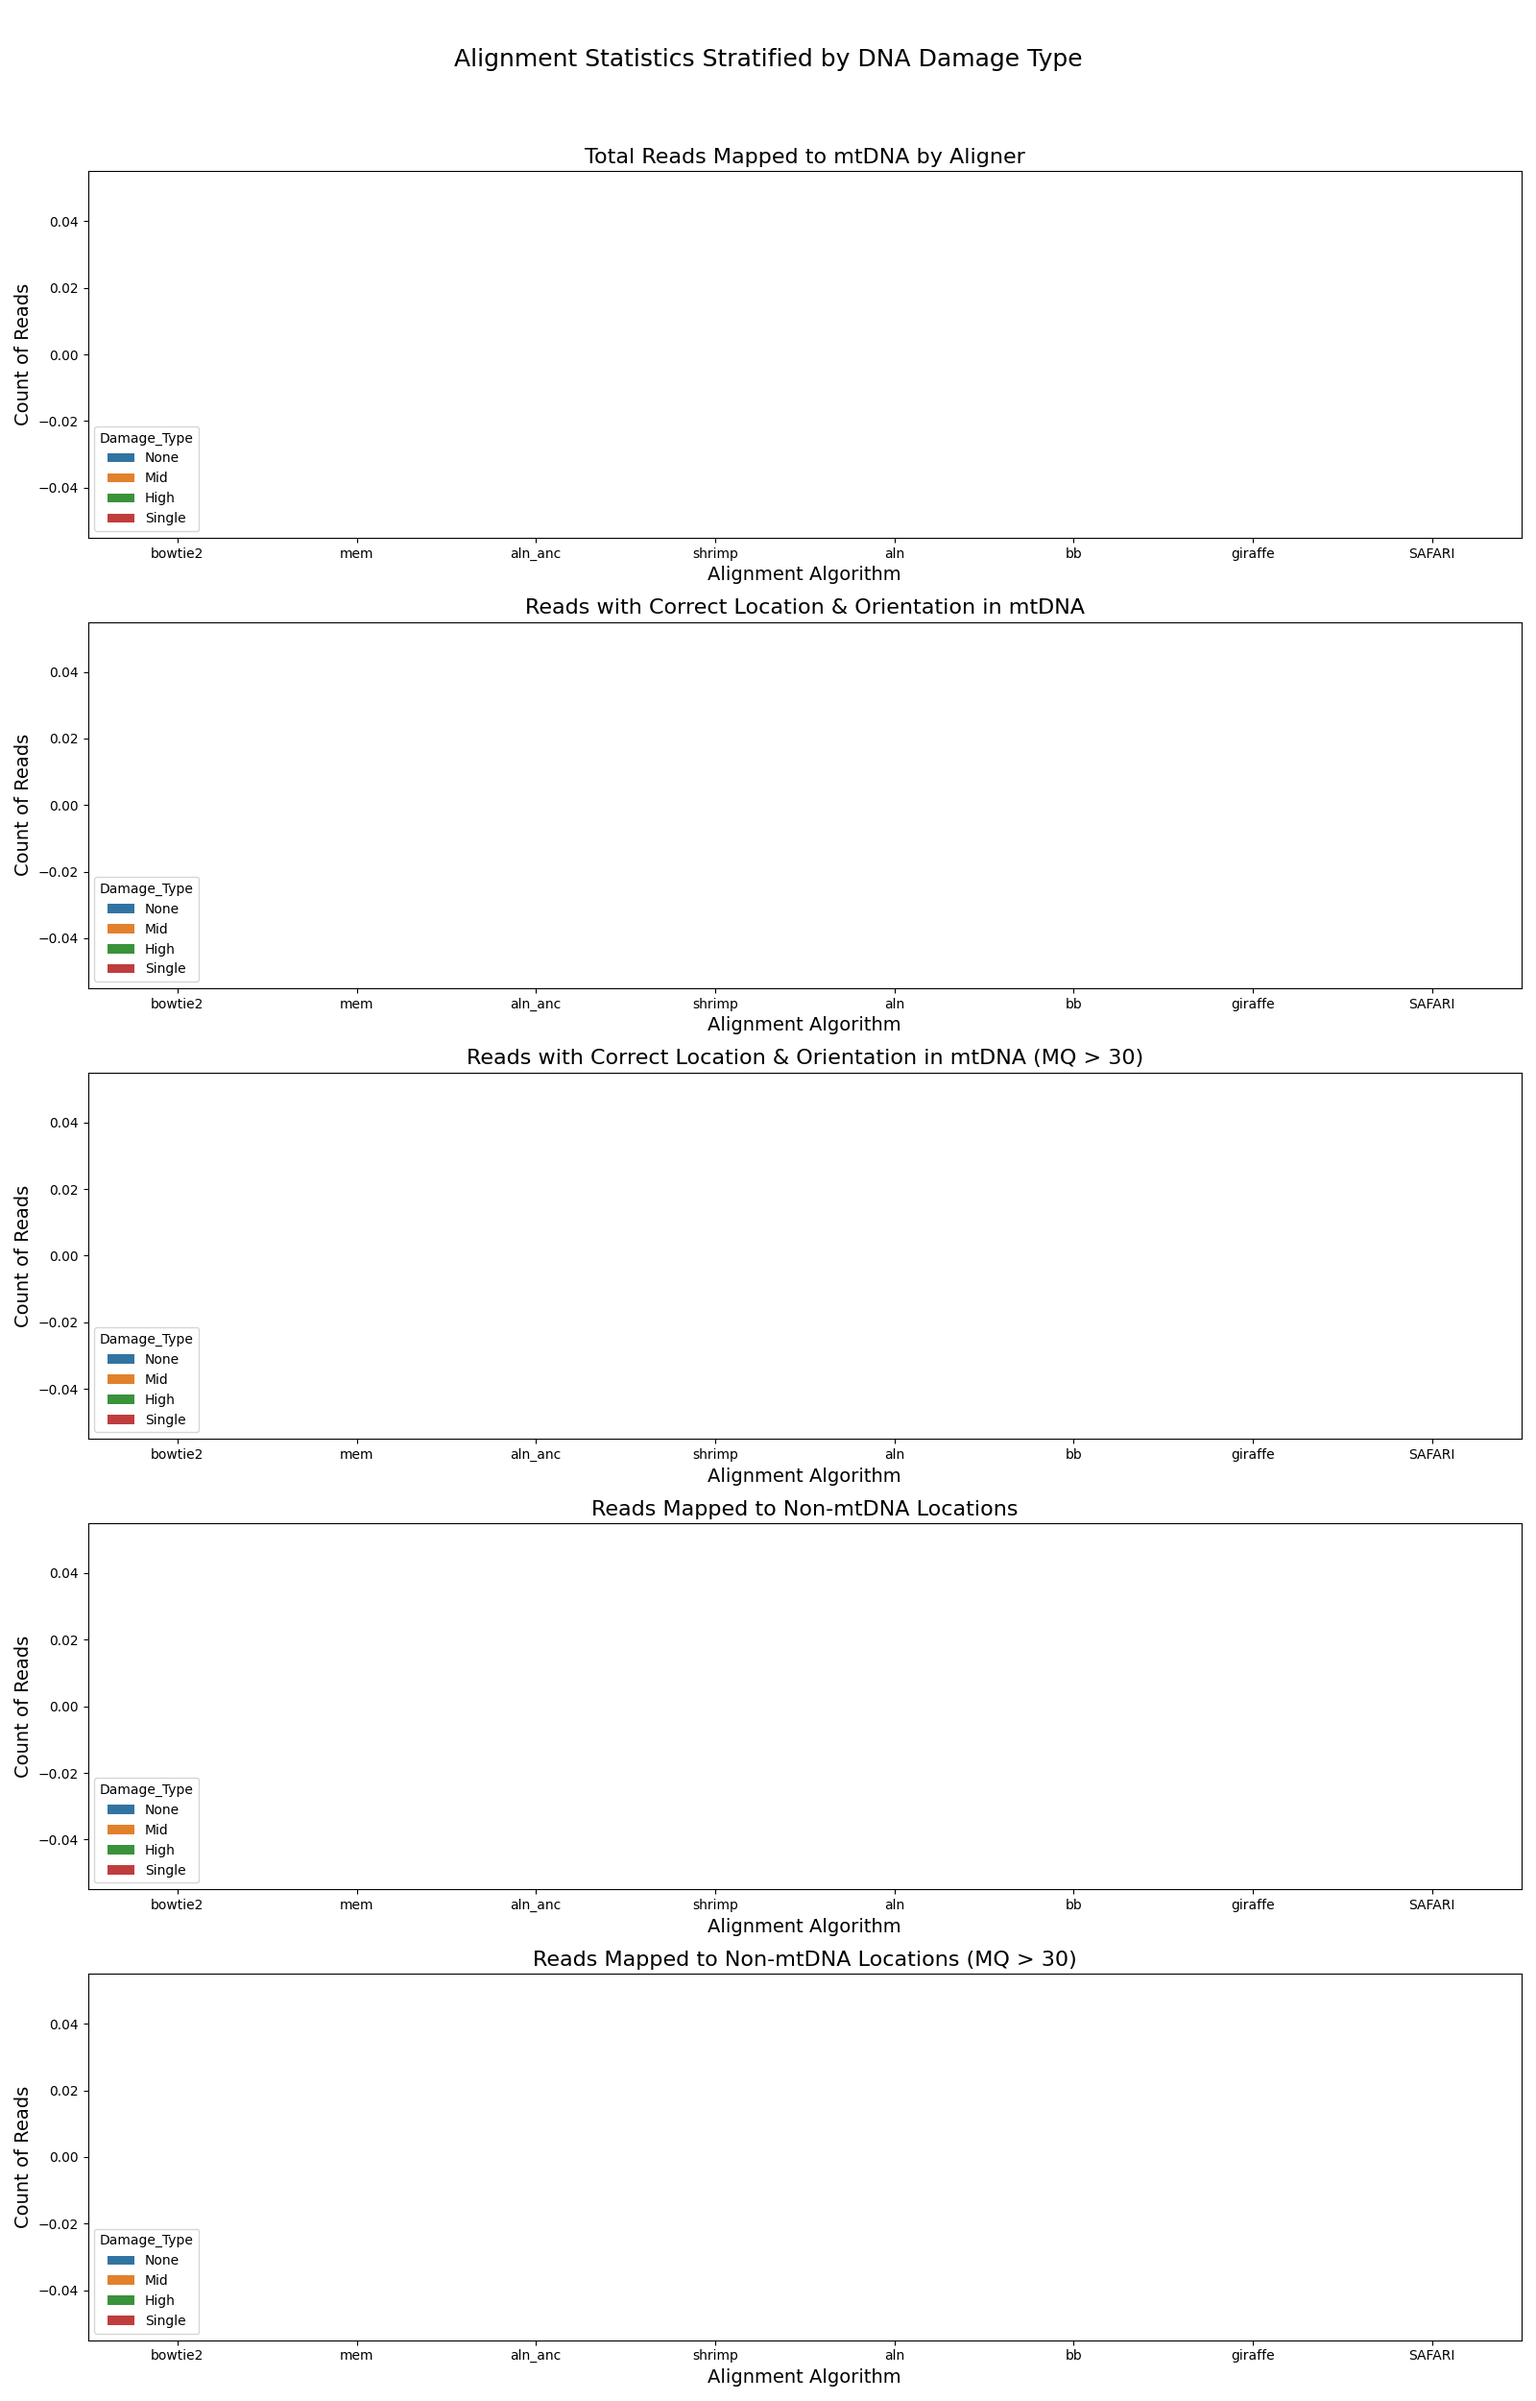
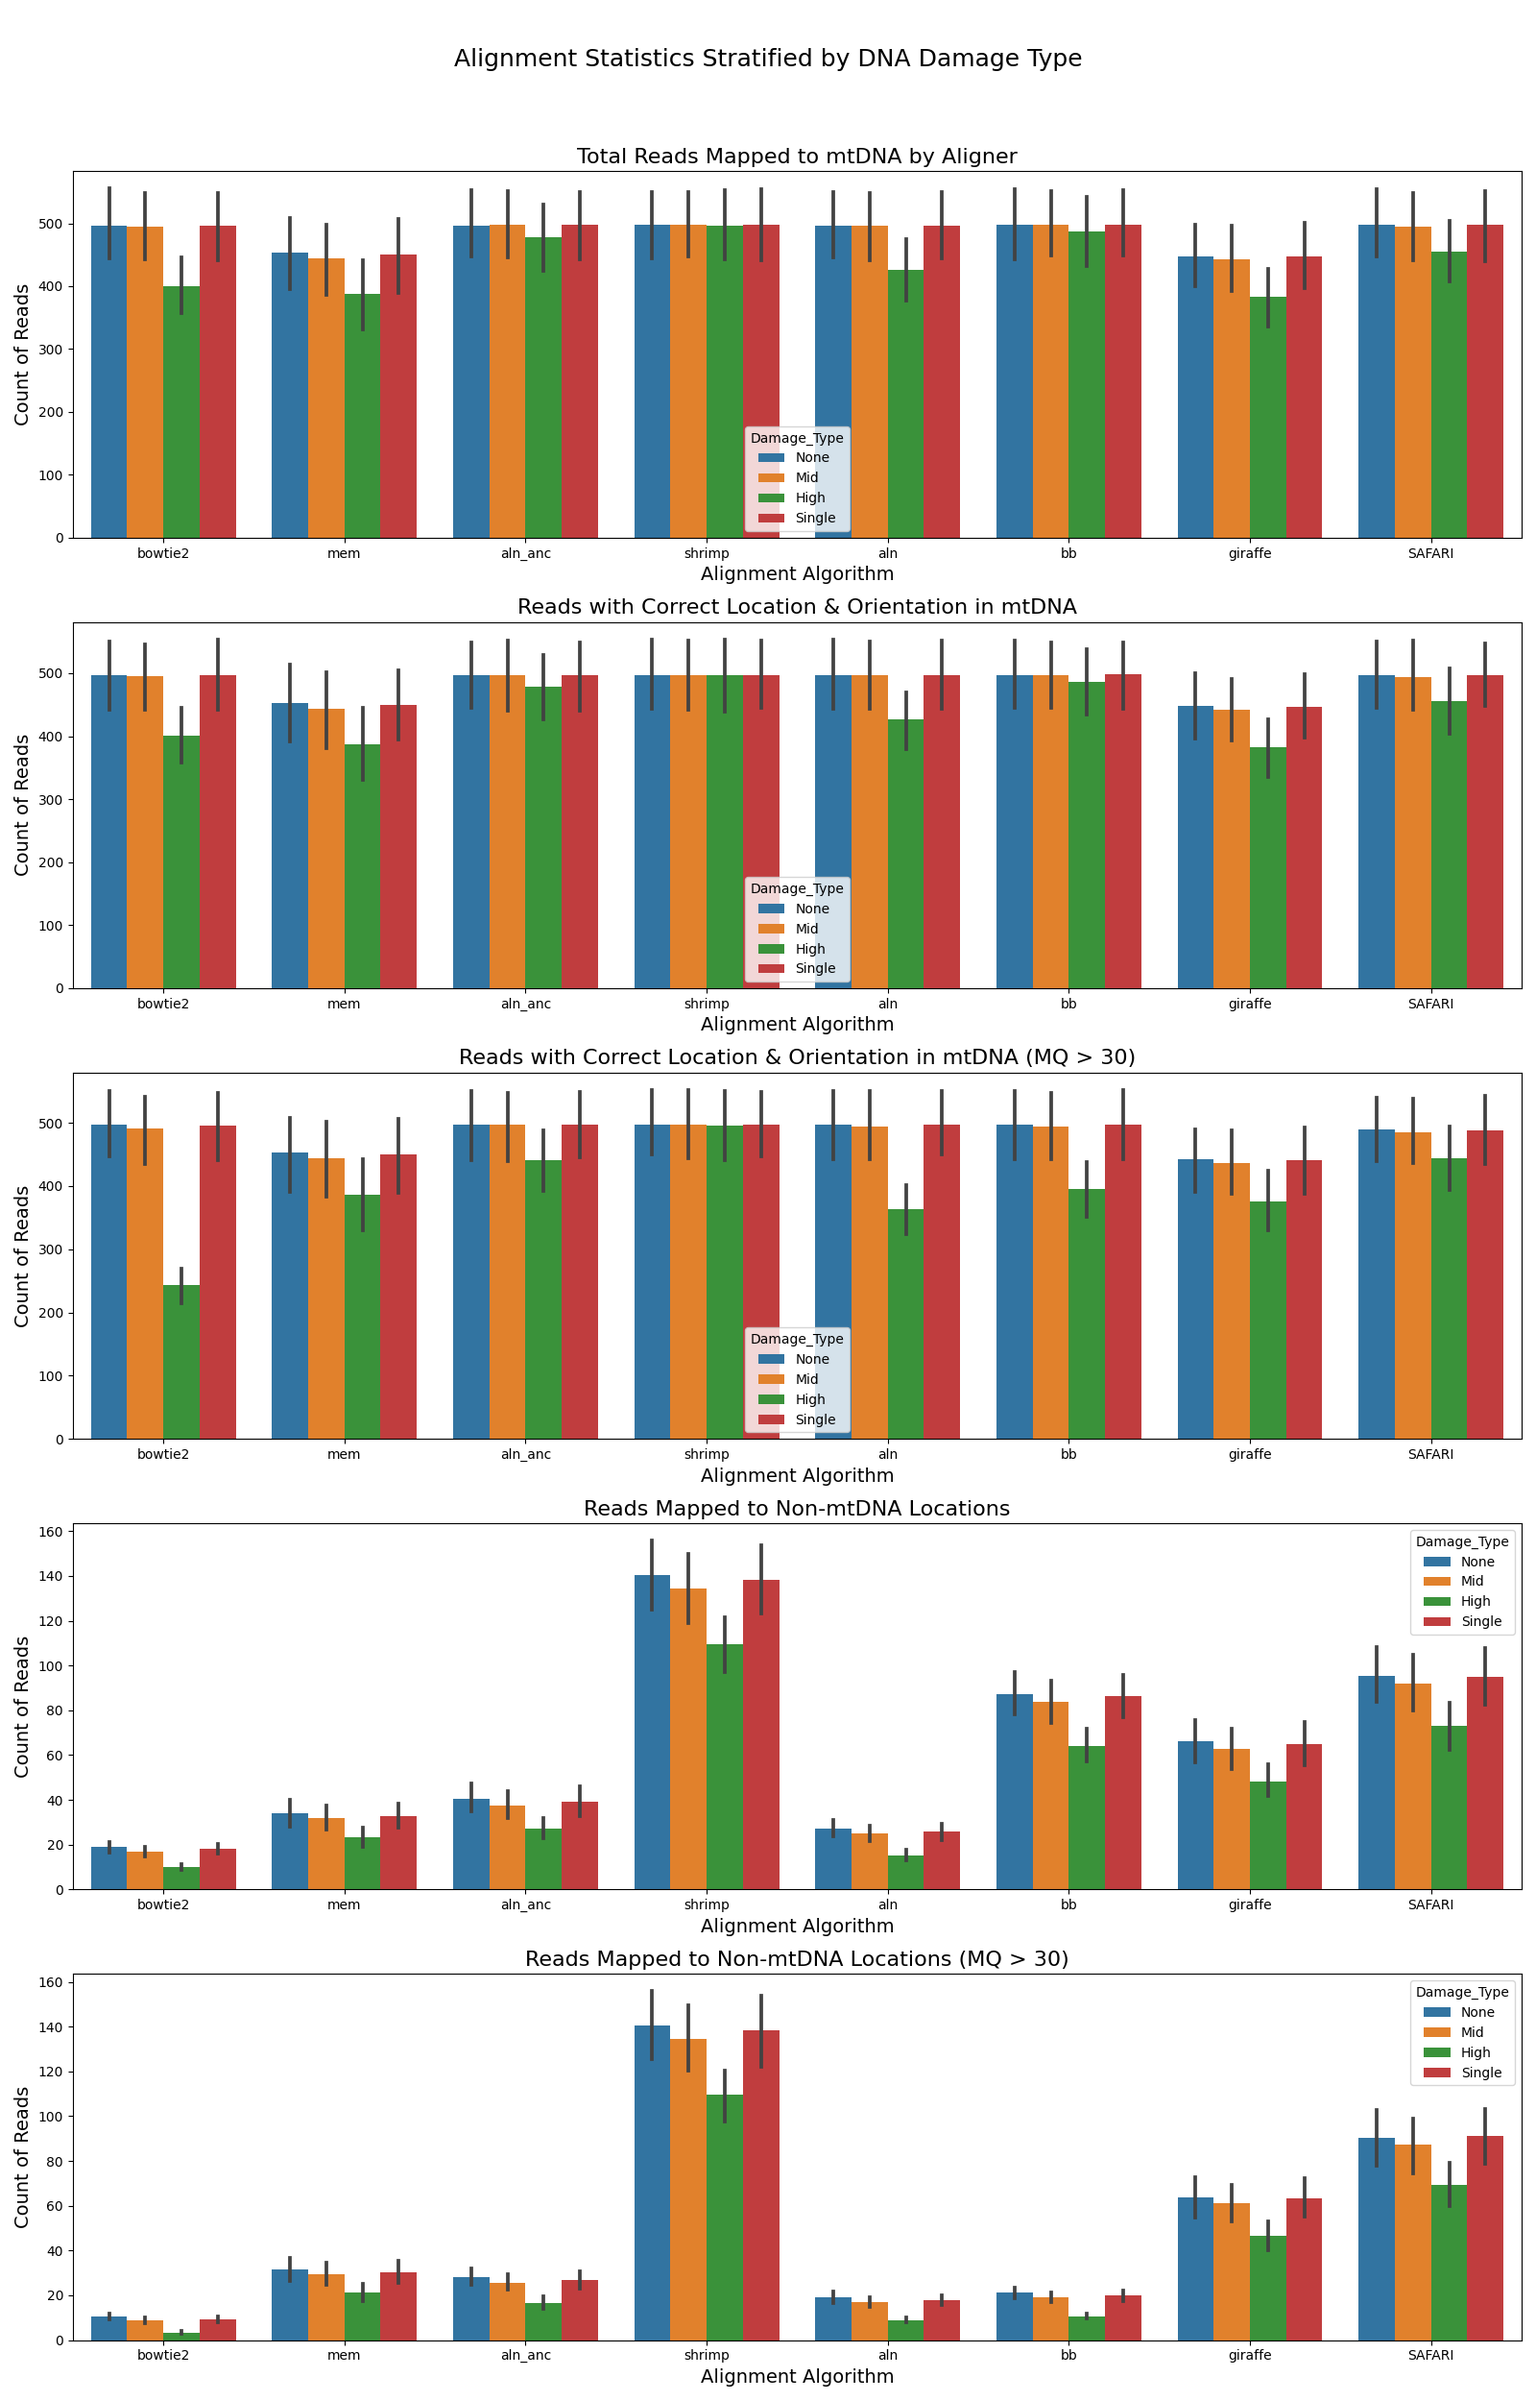
Update

diff --git a/linear_experiment/human_mito/linear_benchmark.py b/linear_experiment/human_mito/linear_benchmark.py
@@ -16,13 +16,13 @@ questions_columns = [
 ]
 
 # Customize the Damage_Type levels and their order
-damage_type_order = ['dnone', 'ddmid', 'ddhigh', 'dsingle']
+damage_type_order = ['none', 'dmid', 'dhigh', 'single']  # Corrected to match the unique values
 custom_order_df = df.copy()
 custom_order_df['Damage_Type'] = custom_order_df['Damage_Type'].astype('category')
-custom_order_df['Damage_Type'].cat.reorder_categories(damage_type_order, ordered=True, inplace=True)
+custom_order_df['Damage_Type'] = custom_order_df['Damage_Type'].cat.reorder_categories(damage_type_order, ordered=True)
 
 # Rename the Damage_Type levels for better readability
-damage_type_rename = {'dnone': 'None', 'ddmid': 'Mid', 'ddhigh': 'High', 'dsingle': 'Single'}
+damage_type_rename = {'none': 'None', 'dmid': 'Mid', 'dhigh': 'High', 'single': 'Single'}  # Corrected to match the unique values
 custom_order_df['Damage_Type'] = custom_order_df['Damage_Type'].map(damage_type_rename)
 
 # Update Aligner_Name to make 'safari' uppercase ('SAFARI')
